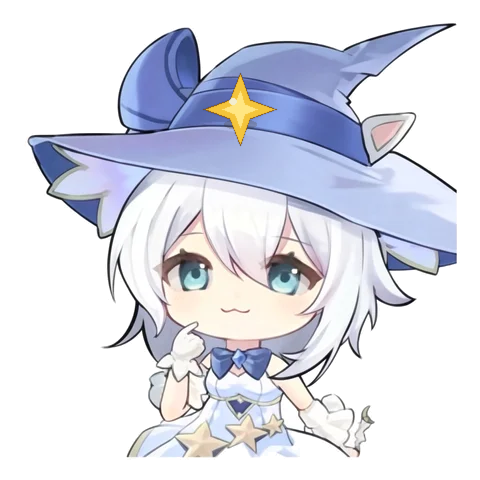
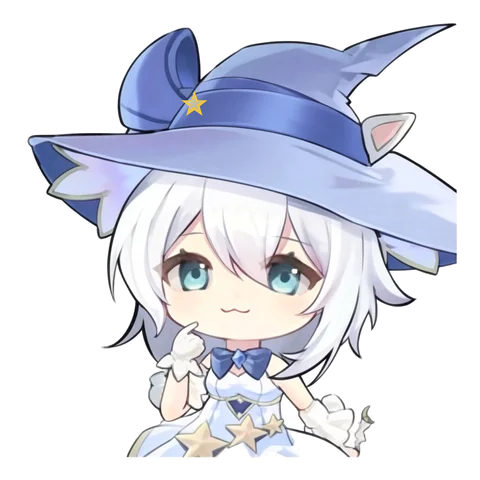
fix: 帽顶改回偏左五角星，气泡不再被帽子挡住
出厂星按原 logo 画成五角、略偏左，思考叠层不必盖住它。正式悬浮窗加高并把气泡叠在角色上面。

Changed region(s): [[0.375, 0.1562, 0.5938, 0.3125]]

diff --git a/app/src/index.css b/app/src/index.css
@@ -927,11 +927,15 @@ html.companion-surface body,
 html.companion-surface #app {
   background: transparent !important;
   overflow: hidden;
+  width: 232px;
+  min-width: 0;
+  height: 400px;
+  min-height: 0;
 }
 
 .companion-pet {
   width: 232px;
-  height: 360px;
+  height: 400px;
   position: relative;
   user-select: none;
   -webkit-app-region: drag;
@@ -941,7 +945,13 @@ html.companion-surface #app {
   position: absolute;
   left: 14px;
   right: 14px;
-  top: 8px;
+  top: 10px;
+  z-index: 3;
+  max-height: 52px;
+  overflow: hidden;
+  display: -webkit-box;
+  -webkit-box-orient: vertical;
+  -webkit-line-clamp: 2;
   background: var(--popover);
   color: var(--popover-foreground);
   border-radius: 8px;
@@ -966,9 +976,10 @@ html.companion-surface #app {
 
 .companion-pet-body {
   position: relative;
+  z-index: 1;
   width: 148px;
   height: 148px;
-  margin: 96px auto 0;
+  margin: 128px auto 0;
   transform-origin: 50% 90%;
   animation: companion-pet-bob 1.1s ease-in-out infinite;
 }

diff --git a/docs/developer/companion-skin.md b/docs/developer/companion-skin.md
@@ -16,32 +16,32 @@
 
 | 运动 | 产品何时使用 | 作者交什么 | 产品自己叠什么 |
 | --- | --- | --- | --- |
-| `idle` | 空闲 | **必交**。闭嘴、完整帽子、帽顶有黄色四角星。 | 轻微上下浮动（约 1.1s）。 |
+| `idle` | 空闲 | **必交**。闭嘴、完整帽子、帽顶偏左有一颗黄色五角星。 | 轻微上下浮动（约 1.1s）。 |
 | `talk` | 正在流式说话 | **必交**。与 `idle` 同一张脸和同一顶帽子，只改嘴。 | 浮动加快（约 0.28s）。 |
 | `think` | 忙碌但还没开口 | 可另交一帧；不交就复用 `idle`。 | 帽顶加载饰旋转（反向，1.6s / 圈）。 |
 | `decide` | 等用户确认，或刚出错 | 可另交一帧；不交就复用 `idle`。 | 帽顶变成叹号；脑袋上方弹出气泡。 |
 
 优先级：`decide` > `talk` > `think` > `idle`。`decide` 盖住说话和思考。
 
-不要交这些：眨眼循环、走路循环、APNG / WebP 动画、baked 加载圈、baked 叹号、脸上的罗马音或商标字。帽顶黄星属于 `idle` / `talk`，不是加载饰。产品不会播序列帧；眨眼以后若要加，也是可选增强，不是合同。
+不要交这些：眨眼循环、走路循环、APNG / WebP 动画、baked 加载圈、baked 叹号、脸上的罗马音或商标字。帽顶黄星属于 `idle` / `talk`，不是加载饰，也不要求思考圈或叹号盖住它。产品不会播序列帧；眨眼以后若要加，也是可选增强，不是合同。
 
 ## 画布
 
-悬浮窗是透明的 `232 × 360` CSS 像素。角色只占中间一块 `148 × 148`，顶边距 `96`，左右居中。源图建议 `480 × 480` PNG（RGBA），`object-fit: contain` 缩进 148 盒。更大也可以，但不要改比例去撑满窗口。
+悬浮窗是透明的 `232 × 400` CSS 像素。角色只占中间一块 `148 × 148`，顶边距 `128`，左右居中。源图建议 `480 × 480` PNG（RGBA），`object-fit: contain` 缩进 148 盒。更大也可以，但不要改比例去撑满窗口。
 
 ```text
 232
 +----------------------------------+
-| 8px                              |
-|   [ 决策气泡，左右各留 14px ]      |  产品画，作者不要画进 PNG
+| 10px                             |
+|   [ 决策气泡，左右各留 14px ]      |  产品画，叠在角色之上，最多两行
 |                                  |
-|          96px 空档               |
+|          128px 空档              |
 |         +----------+             |
 |         | 148x148  |             |  角色安全框
 |         |   角色   |             |
 |         +----------+             |
 |                                  |
-+----------------------------------+ 360
++----------------------------------+ 400
 ```
 
 要求：
@@ -58,12 +58,12 @@
 这是整套皮肤的锁。后面所有帧都从它长出来，不要重抽一张「同角色」。
 
 - 全身可见，正面或 3/4 正面，站定。
-- 帽子画完整。帽顶要有那颗黄色四角星；不要留缺口或「等产品补花」的空白。
-- 不要把加载圈或叹号画进 PNG。思考和决策时产品会盖住这颗星。
+- 帽子画完整。帽顶偏左要有一颗黄色五角星；不要画成四角闪，也不要留缺口等产品补花。
+- 不要把加载圈或叹号画进 PNG。思考和决策叠层锚在帽顶附近，不必盖住这颗星。
 - 嘴闭合。
 - 发色、帽色、光影在整套里锁定。不要一张有阴影、下一张没阴影。
 
-出厂默认就是这一条：白发、猫耳、蓝色光滑帽、帽顶黄星、蓝眼、白裙。帽沿不要另加一圈碎星。
+出厂默认就是这一条：白发、猫耳、蓝色光滑帽、帽顶偏左黄五角星、蓝眼、白裙。帽沿不要另加一圈碎星。
 
 ### `talk.png`
 
@@ -79,10 +79,10 @@
 
 | 运动 | 叠层 | 作者必须留空的原因 |
 | --- | --- | --- |
-| `idle` | 无 | 只露帽顶黄星。 |
+| `idle` | 无 | 只露帽顶偏左的黄五角星。 |
 | `talk` | 无 | 同上。 |
-| `think` | SVG 加载饰，反向旋转 | 盖住黄星。不要再画一颗星或一圈加载。 |
-| `decide` | SVG 叹号 + 窗口顶部气泡 | 盖住黄星。不要把叹号或对话框画进 PNG。 |
+| `think` | SVG 加载饰，反向旋转 | 不要再画一圈加载。叠层不必盖住黄星。 |
+| `decide` | SVG 叹号 + 窗口顶部气泡 | 不要把叹号或对话框画进 PNG。气泡在角色之上，不要让帽子挡住文案。 |
 
 气泡由产品用当前界面语言填写，例如「有一条命令在等你确认」。作者不要把文案画进皮肤。
 
@@ -135,10 +135,10 @@ my-companion-skin/
 
 ## 验收（对着跑起来的悬浮窗看）
 
-1. 空闲：只有角色在轻轻浮动，帽顶能看见黄色四角星。
+1. 空闲：只有角色在轻轻浮动，帽顶偏左能看见黄色五角星。
 2. 发一句让桌宠说话：切到张嘴，帽子和头发没有换色、没有多出星星。
-3. 让它忙起来但还没流式输出：帽顶加载饰在转，且转的方向是顺时针看去的反方向（CSS `rotate(-360deg)`），速度大约 1.6 秒一圈。
-4. 触发跨会话确认或让它报错：帽顶变成叹号，气泡出现在脑袋上方，不被头发挡住。
+3. 让它忙起来但还没流式输出：帽顶加载饰在转，且转的方向是顺时针看去的反方向（CSS `rotate(-360deg)`），速度大约 1.6 秒一圈。黄星可以露在加载饰旁边。
+4. 触发跨会话确认或让它报错：帽顶变成叹号，气泡完整停在脑袋上方，帽子和头发不得盖住字。
 5. 右键皮肤：桌宠隐藏；macOS Dock 或 Windows 任务栏（Linux 托盘）还能唤醒。这是壳行为，不是皮肤的一部分。
 
 不要用挂载测试去锁 class 名或 PNG 哈希。换默认皮肤时，更新本页出厂描述，并替换 `app/src/assets/companion/` 那两张图。
